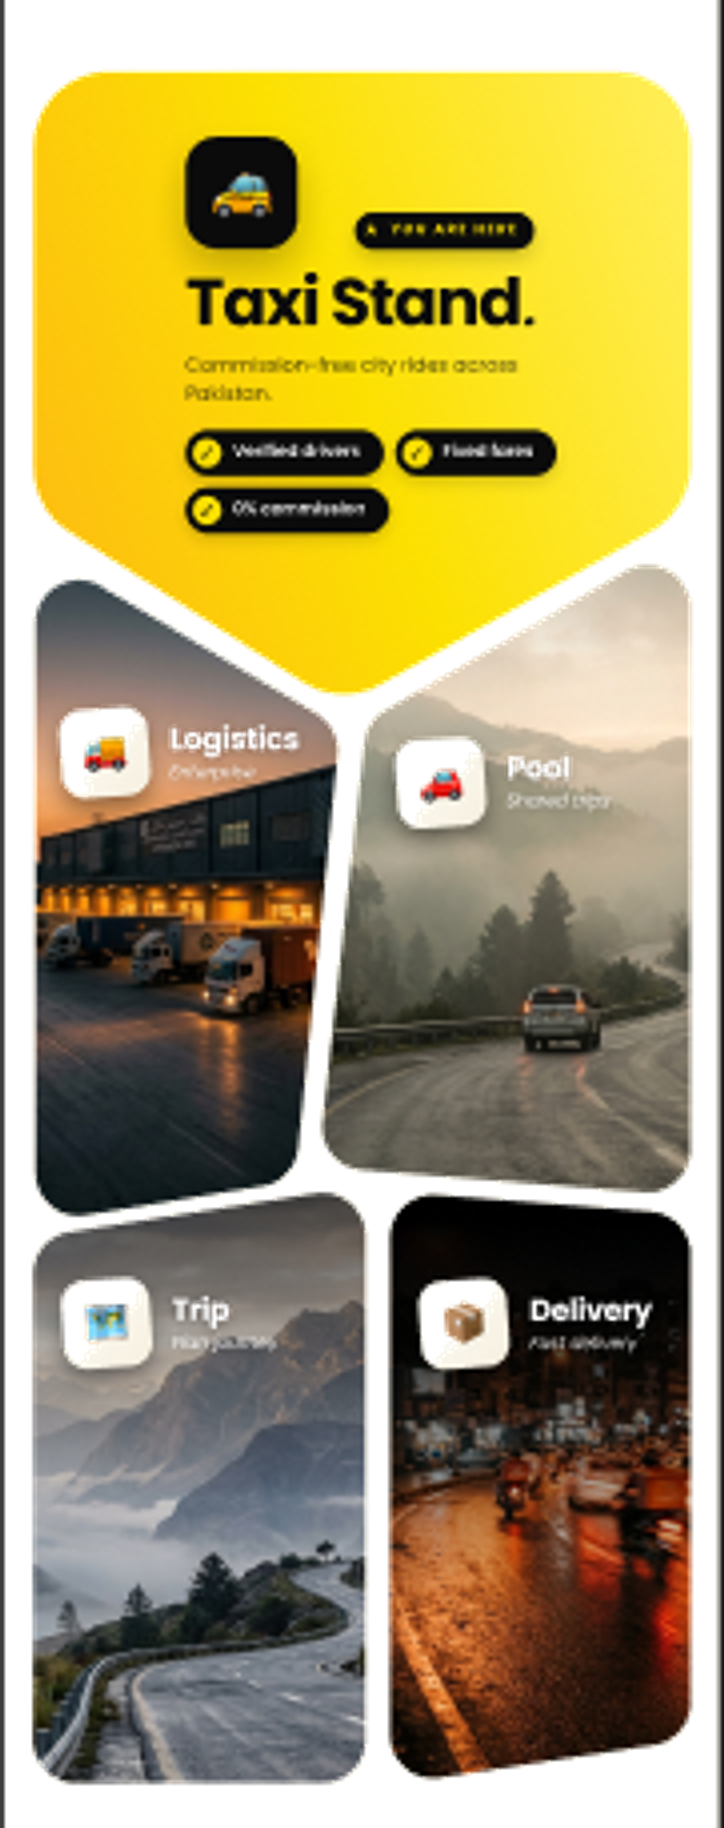
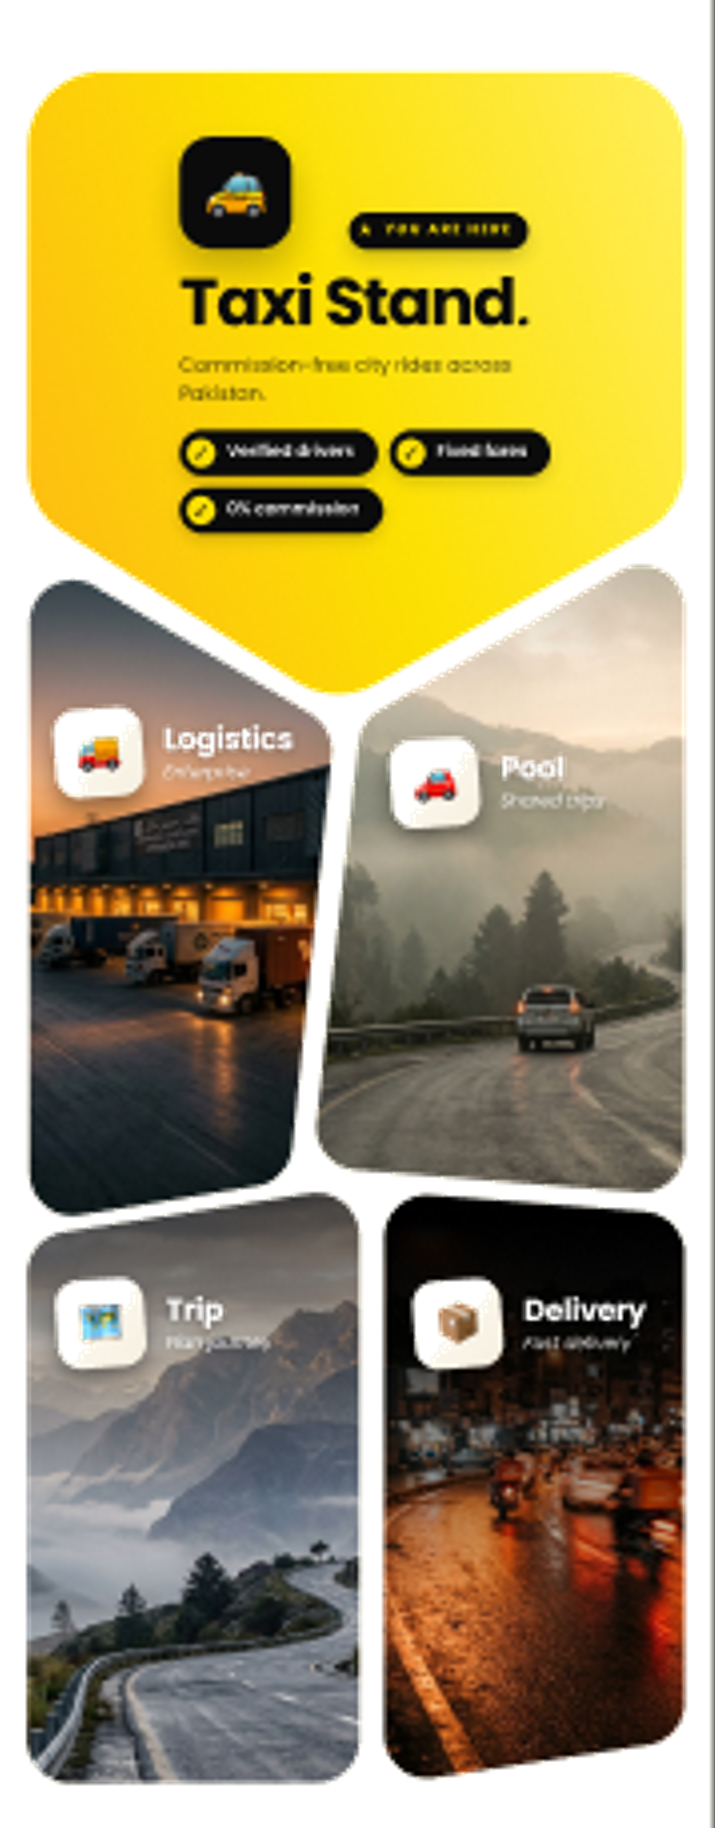
Make services image full-bleed on mobile
Updated the OurServicesSection to make the mobile services image extend edge-to-edge using negative margins and calculated widths. Changed from constrained max-width layout to full-viewport width on mobile/tablet, with proper constraints restored on medium+ screens. Updated image sizing attributes and refreshed the services mobile image asset.

diff --git a/components/TaxiStand-sections/OurServicesSection.tsx b/components/TaxiStand-sections/OurServicesSection.tsx
@@ -114,21 +114,21 @@ export default function OurServicesSection() {
           </p>
         </motion.div>
 
-        {/* Mobile + small tablet — 100% Figma screenshot replica */}
+        {/* Mobile + small tablet — 100% Figma screenshot replica (full-bleed, no side borders) */}
         <motion.div
           initial={{ opacity: 0, y: 12 }}
           whileInView={{ opacity: 1, y: 0 }}
           viewport={{ once: true }}
           transition={{ duration: 0.45 }}
-          className="relative mx-auto w-full max-w-[420px] md:max-w-[480px] lg:hidden"
+          className="relative -mx-4 w-[calc(100%+2rem)] max-w-none sm:-mx-6 sm:w-[calc(100%+3rem)] md:mx-auto md:w-full md:max-w-[480px] lg:hidden"
         >
           <Image
             src="/images/taxi-stand/services/mobile/services-mobile-full.png"
             alt="Our services — Taxi Stand, Logistics, Pool, Trip, Delivery"
-            width={724}
+            width={715}
             height={1828}
             className="h-auto w-full"
-            sizes="(max-width: 1024px) 480px, 0px"
+            sizes="(max-width: 1024px) 100vw, 0px"
             priority
           />
 
